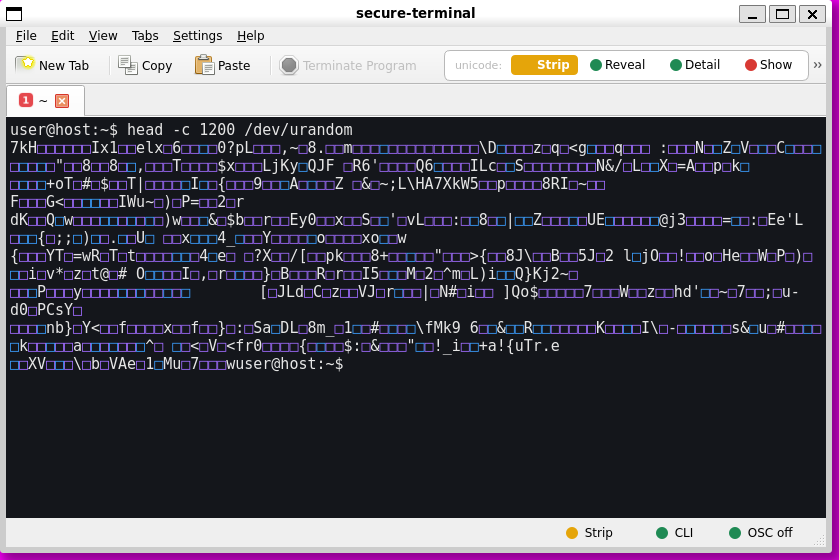
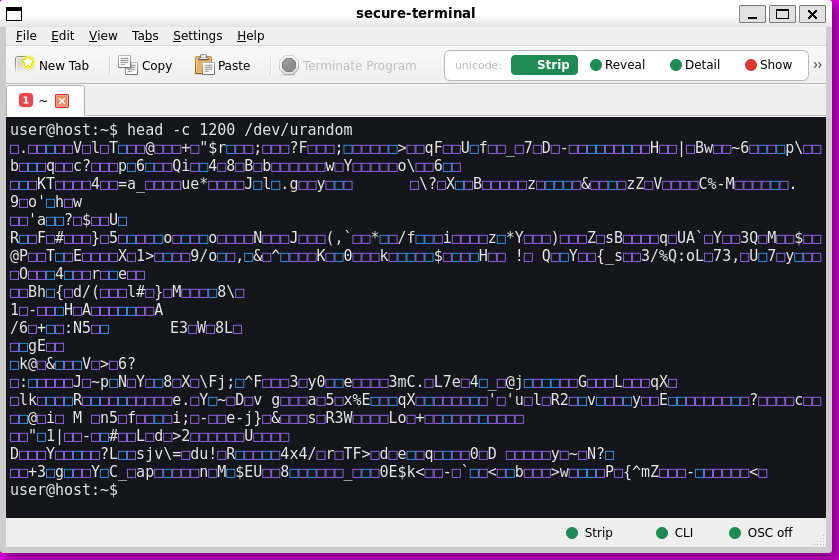
comparison: regenerate secure-terminal shots (green strip, clean prompt)
Reshot secure-terminal to match the app: Strip mode now reads GREEN, not yellow
(its box placeholder is hard to miss), and after `head -c` the returned prompt
sits on its own line instead of gluing onto the output. Random caption and the
behaviour table's placeholder wording updated: non-ASCII becomes an inert box
coloured by risk class, not a plain "_".

AI-Assisted

diff --git a/comparison/index.html b/comparison/index.html
@@ -110,7 +110,7 @@
     stream tripped a window-manipulation escape that shrank or killed their window outright - a
     louder failure than corruption, but not a legible screenshot.</p>
   <div class="shotgrid">
-    <figure class="shot"><figcaption class="shotname"><b>secure-terminal</b> - random bytes as inert ASCII; title unchanged; only contrast-guarded colour.</figcaption><a href="shots/secure-terminal.random.png" target="_blank" rel="noopener"><img src="shots/secure-terminal.random.png" width="839" height="560" loading="lazy" alt="secure-terminal displaying random bytes as inert printable ASCII, title unchanged."></a></figure>
+    <figure class="shot"><figcaption class="shotname"><b>secure-terminal</b> - random bytes neutralised: printable ASCII as-is, everything else an inert box (coloured by risk class); title unchanged, prompt returns clean.</figcaption><a href="shots/secure-terminal.random.png" target="_blank" rel="noopener"><img src="shots/secure-terminal.random.png" width="839" height="560" loading="lazy" alt="secure-terminal displaying random bytes: printable ASCII shown as-is and every other byte as an inert box coloured by risk class, title unchanged, the returned prompt on its own line."></a></figure>
     <figure class="shot"><figcaption class="shotname"><b>xterm</b> - garbled, stuck reverse-video.</figcaption><a href="shots/xterm.random.png" target="_blank" rel="noopener"><img src="shots/xterm.random.png" width="833" height="548" loading="lazy" alt="xterm displaying random bytes: garbled with stuck reverse-video."></a></figure>
 
 
@@ -184,10 +184,10 @@ ST_REPO=/path/to/secure-terminal ./capture.sh
   <table class="cmp">
     <thead><tr><th>Behaviour</th><th>Traditional terminal</th><th>secure-terminal</th></tr></thead>
     <tbody>
-      <tr><td>Escape sequences in program output</td><td class="trad">Interpreted: output can move the cursor, erase and repaint lines, hide or fake text.</td><td><span class="yes">Never parsed.</span> Shown as an inert <code>_</code>, so nothing a program prints can redraw the screen.</td></tr>
+      <tr><td>Escape sequences in program output</td><td class="trad">Interpreted: output can move the cursor, erase and repaint lines, hide or fake text.</td><td><span class="yes">Never parsed.</span> Removed; any stray control byte shows as an inert box (coloured by risk class), so nothing a program prints can redraw the screen.</td></tr>
       <tr><td>Merely viewing a file (<code>cat</code>, a log, a diff)</td><td class="trad">Can trigger every escape trick above; that is the whole attack class.</td><td><span class="yes">Safe</span> to <code>cat</code> anything: output is reduced to printable ASCII first.</td></tr>
       <tr><td>Escape-sequence RCE (a title/clipboard/status query reflected back into input)</td><td class="trad">A real, 20-year CVE class: viewing a crafted file can inject keystrokes, sometimes run commands. (Responsibly disclosed CVEs and demos; none confirmed exploited in the wild.)</td><td><span class="yes">Impossible by design.</span> No escape parser, and it answers no query sequences.</td></tr>
-      <tr><td>Invisible, bidi and homoglyph characters (Trojan Source)</td><td class="trad">Rendered as-is; text can read as something other than its bytes.</td><td><span class="yes">Neutralized</span> to <code>_</code> by default, or revealed as <code>&lt;U+XXXX&gt;</code> on demand.</td></tr>
+      <tr><td>Invisible, bidi and homoglyph characters (Trojan Source)</td><td class="trad">Rendered as-is; text can read as something other than its bytes.</td><td><span class="yes">Neutralized</span> to an inert box (coloured by risk class) by default, or revealed as <code>&lt;U+XXXX&gt;</code> on demand.</td></tr>
       <tr><td>Pasted command with a hidden second line or control bytes</td><td class="trad">Historically auto-ran. Modern shells mitigate with bracketed paste, but it is opt-in and not universal.</td><td>Paste is sanitized to ASCII; any hidden control or unicode is stripped and <span class="yes">warned on</span> before it reaches the shell.</td></tr>
       <tr><td>Clipboard read/write from program output (OSC&nbsp;52)</td><td class="trad">Some terminals allow it, so a remote program can read or poison your clipboard.</td><td><span class="yes">Off by default.</span> Opt-in toggles exist for write and for read; clipboard read, if enabled, is asked once per tab before any reply, so untrusted output cannot exfiltrate it.</td></tr>
       <tr><td>Window title / desktop notifications from output (OSC&nbsp;0/2/9)</td><td class="trad">Set by any program output: a spoofing surface.</td><td><span class="yes">Off by default</span>, individually toggleable; sanitized to plain ASCII when you opt in.</td></tr>